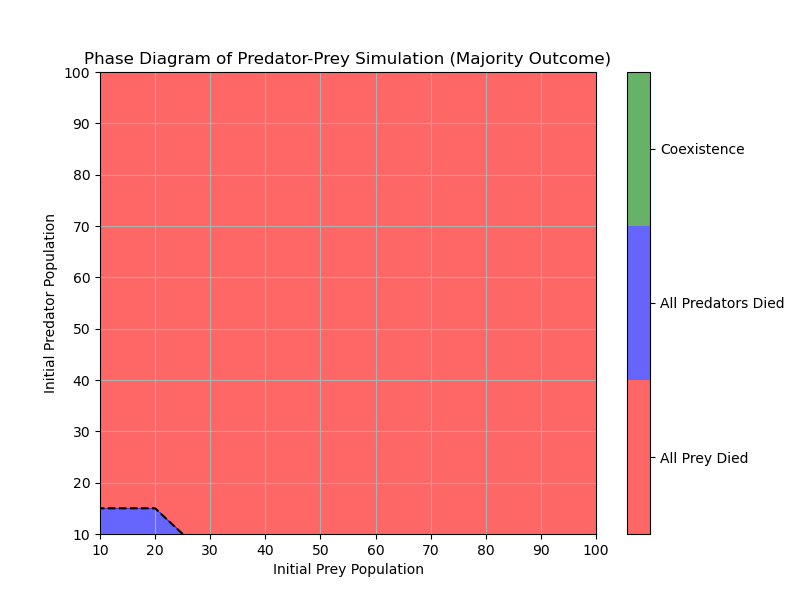
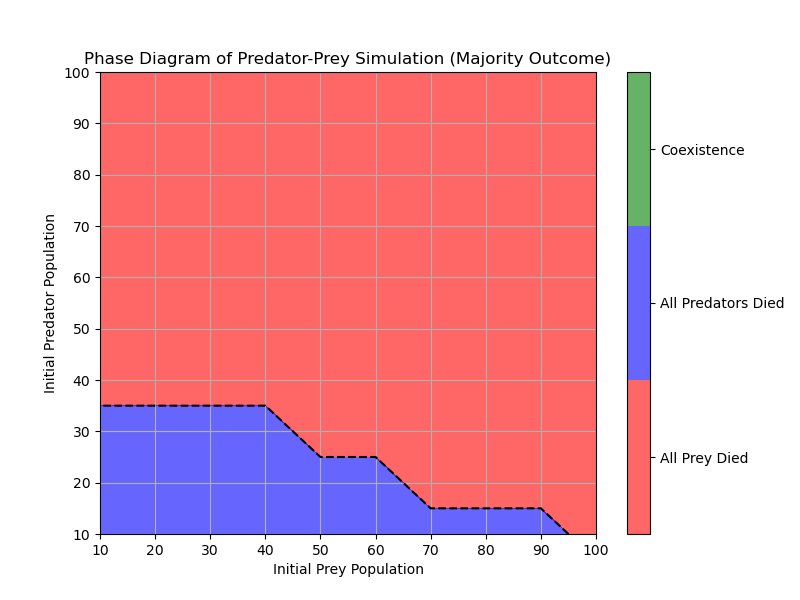
changes

Changed region(s): [[0.125, 0.66, 0.7188, 0.9], [0.8125, 0.24, 0.9375, 0.27]]

diff --git a/reproduction.py b/reproduction.py
@@ -1,0 +1,239 @@
+import random
+import numpy as np
+import matplotlib.pyplot as plt
+from collections import Counter
+from tqdm import tqdm  # For progress bars
+import multiprocessing as mp  # For parallel processing
+
+# Simulation parameters
+GRID_SIZE = 20
+MAX_STEPS = 1000
+NUM_SIMULATIONS = 10  # Reduced to manage computational load
+
+# Reproduction parameters
+PREY_REPRODUCTION_THRESHOLD = 3  # Prey reproduces after 3 steps
+PREDATOR_REPRODUCTION_ENERGY = 15  # Energy level at which predator reproduces
+
+# Agent classes
+class Prey:
+    def __init__(self, x, y):
+        self.x = x
+        self.y = y
+        self.reproduction_counter = 0  # Added reproduction counter
+
+class Predator:
+    def __init__(self, x, y):
+        self.x = x
+        self.y = y
+        self.energy = 5
+        self.reproduction_counter = 0  # Added reproduction counter (optional)
+
+def run_simulation(args):
+    num_prey, num_predators = args
+    grid = [[None for _ in range(GRID_SIZE)] for _ in range(GRID_SIZE)]
+    prey_list = []
+    predator_list = []
+    step_count = 0
+
+    # Initialize prey
+    for _ in range(num_prey):
+        while True:
+            x, y = random.randint(0, GRID_SIZE-1), random.randint(0, GRID_SIZE-1)
+            if grid[y][x] is None:
+                prey = Prey(x, y)
+                grid[y][x] = prey
+                prey_list.append(prey)
+                break
+
+    # Initialize predators
+    for _ in range(num_predators):
+        while True:
+            x, y = random.randint(0, GRID_SIZE-1), random.randint(0, GRID_SIZE-1)
+            if grid[y][x] is None or isinstance(grid[y][x], Prey):
+                predator = Predator(x, y)
+                grid[y][x] = predator
+                predator_list.append(predator)
+                break
+
+    while step_count < MAX_STEPS and prey_list and predator_list:
+        step_count += 1
+        move_prey(grid, prey_list)
+        move_predators(grid, prey_list, predator_list)
+
+    # Determine the outcome
+    if not prey_list:
+        return 0  # All Prey Died
+    elif not predator_list:
+        return 1  # All Predators Died
+    else:
+        return 2  # Coexistence
+
+def move_prey(grid, prey_list):
+    for prey in prey_list[:]:
+        x, y = prey.x, prey.y
+        neighbors = get_neighbors(x, y)
+        random.shuffle(neighbors)
+        moved = False
+        for nx, ny in neighbors:
+            if grid[ny][nx] is None:
+                grid[y][x] = None
+                prey.x, prey.y = nx, ny
+                grid[ny][nx] = prey
+                moved = True
+                break
+        # Reproduction logic for prey
+        prey.reproduction_counter += 1
+        if prey.reproduction_counter >= PREY_REPRODUCTION_THRESHOLD:
+            random.shuffle(neighbors)  # Shuffle neighbors for reproduction
+            for nx, ny in neighbors:
+                if grid[ny][nx] is None:
+                    new_prey = Prey(nx, ny)
+                    prey_list.append(new_prey)
+                    grid[ny][nx] = new_prey
+                    prey.reproduction_counter = 0  # Reset counter after reproduction
+                    break
+
+def move_predators(grid, prey_list, predator_list):
+    random.shuffle(predator_list)
+    for predator in predator_list[:]:
+        x, y = predator.x, predator.y
+        neighbors = get_neighbors(x, y)
+        prey_neighbors = []
+        empty_neighbors = []
+        for nx, ny in neighbors:
+            if isinstance(grid[ny][nx], Prey):
+                prey_neighbors.append((nx, ny))
+            elif grid[ny][nx] is None:
+                empty_neighbors.append((nx, ny))
+        moved = False
+        if prey_neighbors:
+            nx, ny = random.choice(prey_neighbors)
+            grid[y][x] = None
+            prey = grid[ny][nx]
+            prey_list.remove(prey)
+            grid[ny][nx] = predator
+            predator.x, predator.y = nx, ny
+            predator.energy += 5
+            moved = True
+        elif empty_neighbors:
+            nx, ny = random.choice(empty_neighbors)
+            grid[y][x] = None
+            grid[ny][nx] = predator
+            predator.x, predator.y = nx, ny
+            predator.energy -= 1
+            moved = True
+        else:
+            predator.energy -= 1
+        if not moved:
+            predator.energy -= 1
+        # Reproduction logic for predators
+        if predator.energy >= PREDATOR_REPRODUCTION_ENERGY:
+            random.shuffle(neighbors)  # Shuffle neighbors for reproduction
+            for nx, ny in neighbors:
+                if grid[ny][nx] is None:
+                    new_predator = Predator(nx, ny)
+                    predator_list.append(new_predator)
+                    grid[ny][nx] = new_predator
+                    # Reduce energy after reproduction
+                    predator.energy = predator.energy // 2  # Split energy
+                    break
+        if predator.energy <= 0:
+            grid[predator.y][predator.x] = None
+            predator_list.remove(predator)
+
+def get_neighbors(x, y):
+    neighbors = []
+    for dx in [-1, 0, 1]:
+        for dy in [-1, 0, 1]:
+            if dx == 0 and dy == 0:
+                continue
+            nx = (x + dx) % GRID_SIZE
+            ny = (y + dy) % GRID_SIZE
+            neighbors.append((nx, ny))
+    return neighbors
+
+# Define the ranges for ratio and density
+ratio_values = np.arange(0.1, 10, 0.02)  # Ratios from 0.1 to 10, step of 0.02
+density_values = np.arange(0.01, 1, 0.01)  # Densities from 0.01 to 1.0, step of 0.01
+X, Y = np.meshgrid(ratio_values, density_values)
+Z = np.zeros_like(X)
+
+# Total number of initial conditions
+total_conditions = len(ratio_values) * len(density_values)
+
+# Calculate total grid cells
+total_grid_cells = GRID_SIZE * GRID_SIZE
+
+# Prepare arguments for parallel processing
+simulation_args = []
+positions = []
+
+for i, ratio in enumerate(ratio_values):
+    for j, density in enumerate(density_values):
+        # Skip simulations where density is 0 (no agents)
+        if density == 0:
+            Z[j, i] = np.nan  # Mark as invalid
+            continue
+
+        # Calculate total number of agents
+        N = int(density * total_grid_cells)
+        if N < 2:
+            N = 2  # Ensure at least one prey and one predator
+
+        num_prey = int((ratio / (ratio + 1)) * N)
+        num_predators = N - num_prey
+
+        # Ensure at least one prey and one predator
+        if num_prey == 0:
+            num_prey = 1
+            num_predators = N - 1
+        if num_predators == 0:
+            num_predators = 1
+            num_prey = N - 1
+
+        # Prepare arguments for simulations
+        for _ in range(NUM_SIMULATIONS):
+            simulation_args.append((num_prey, num_predators))
+            positions.append((j, i))  # To map results back to Z
+
+# Run simulations in parallel
+def worker(args):
+    num_prey, num_predators = args
+    outcome = run_simulation((num_prey, num_predators))
+    return outcome
+
+with mp.Pool() as pool:
+    # Use tqdm with map for progress bar
+    results = list(tqdm(pool.imap(worker, simulation_args), total=len(simulation_args), desc="Running simulations"))
+
+# Aggregate results
+outcomes_dict = {}
+for idx, outcome in enumerate(results):
+    position = positions[idx]
+    if position not in outcomes_dict:
+        outcomes_dict[position] = []
+    outcomes_dict[position].append(outcome)
+
+# Determine the most common outcome for each initial condition
+for position, outcomes in outcomes_dict.items():
+    most_common_outcome = Counter(outcomes).most_common(1)[0][0]
+    j, i = position
+    Z[j, i] = most_common_outcome
+
+# Create a smooth plot using imshow
+plt.figure(figsize=(10, 8))
+# Mask invalid values
+Z_masked = np.ma.masked_invalid(Z)
+extent = [ratio_values.min(), ratio_values.max(), density_values.min(), density_values.max()]
+plt.imshow(Z_masked, extent=extent, origin='lower', aspect='auto', cmap='viridis')
+
+# Set colorbar with custom ticks and labels
+cbar = plt.colorbar(ticks=[0, 1, 2])
+cbar.ax.set_yticklabels(['All Prey Died', 'All Predators Died', 'Coexistence'])
+
+plt.xlabel('Ratio (Prey / Predator)')
+plt.ylabel('Density (Agents per Grid Cell)')
+plt.title('Phase Diagram of Predator-Prey Simulation with Reproduction (Majority Outcome)')
+plt.grid(False)
+plt.savefig(f"plots/ratio_density_{NUM_SIMULATIONS}_with_reproduction.png")
+plt.show()

diff --git a/phaseDiag.py b/phaseDiag.py
@@ -5,9 +5,9 @@ from collections import Counter
 from tqdm import tqdm  # For progress bars
 
 # Simulation parameters
-GRID_SIZE = 15
+GRID_SIZE = 20
 MAX_STEPS = 1000
-NUM_SIMULATIONS = 100  # Number of simulations per initial condition
+NUM_SIMULATIONS = 1000  # Number of simulations per initial condition
 
 # Agent classes
 class Prey:
